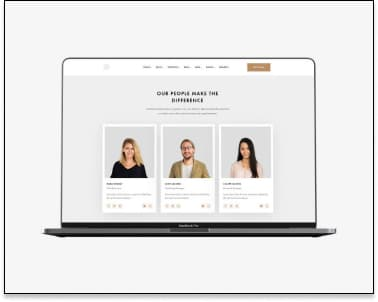
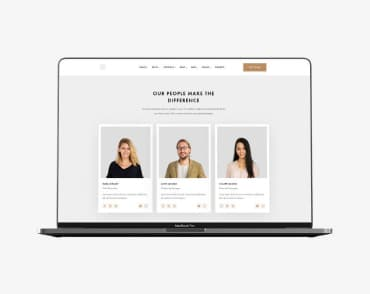
картинка портфолио

diff --git a/css/styles.css b/css/styles.css
@@ -8,6 +8,7 @@
 }
 
 
+
 .visually-hidden {
     position: absolute;
     white-space: nowrap;
@@ -20,7 +21,7 @@
     clip-path: inset(50%);
     margin: -1px;
   }
-  
+
 
 p, h1, h2, h3, h4, h5, h6 {
     margin: 0;
@@ -120,6 +121,7 @@ color: #000000;
 
 
 .header-link, .header-mail, .header-tel {
+display: flex;
 font-weight: 500;
 font-size: 14px;
 line-height: 1.14;
@@ -131,15 +133,22 @@ color: var(--header-color)
 color: var(--accent-color)
 }
 
-.header-item{
+.header-list{
 display: flex;
+align-items: baseline;
 align-items: center;
 justify-content: center;
 cursor: pointer;
-fill: #757575;
+color: #757575;
+}
+
+.header-item :hover,
+.header-item :focus{
+fill: #2196F3;
 }
 
 .header-icon{
+fill: #757575;
 margin-right: 10px;
 }
 
@@ -148,23 +157,14 @@ margin-right: 10px;
 color: var(--accent-color)
 }
 
-.header-icon :hover{
-color: var(--accent-color)   
-}
-    
-.header-icon :focus{
-color: var(--accent-color)
-}
-
-.header-tel, .header-mail {
+.header-tel + .header-mail {
+display: flex;
 font-weight: 500;
 font-size: 14px;
 line-height: 1.14;
 color: #757575;
-}
-
-.header-icon{
-color: #757575;
+align-items: baseline;
+justify-content: center;
 }
 
 .header-tel:hover,
@@ -180,18 +180,19 @@ color: var(--accent-color)
 /*--------HERO-------*/
 
 .hero{
-    background-color: #2F303A;
-    max-width: 1600px;
-    max-height: 600px;
-    margin: 0 auto;
-    background-image: linear-gradient(rgba(47, 48, 58, 0.4),rgba(47, 48, 58, 0.4)), 
-    url(../images/hero.jpg);
-    background-repeat: no-repeat;
-    background-position: center;
-    background-size: cover; 
-    padding-top: 200px;
-    padding-bottom: 200px;
-    }
+content: "";
+background-color: #2F303A;
+max-width: 1600px;
+max-height: 600px;
+margin: 0 auto;
+background-image: linear-gradient(rgba(47, 48, 58, 0.4),rgba(47, 48, 58, 0.4)), 
+url(../images/hero.jpg);
+background-repeat: no-repeat;
+background-position: center;
+background-size: cover; 
+padding-top: 200px;
+padding-bottom: 200px;
+}
         
 
 
@@ -353,6 +354,16 @@ margin-left: 30px;
 margin-bottom: 30 px;
 }
 
+.team-item{
+width: 270px;
+height: 428px;
+background: #FFFFFF;
+box-shadow: 0px 1px 3px rgba(0, 0, 0, 0.12),
+0px 1px 1px rgba(0, 0, 0, 0.14),
+0px 2px 1px rgba(0, 0, 0, 0.2);
+border-radius: 0px 0px 4px 4px;
+
+}
 .team {
 font-weight: 500;
 font-size: 16px;
@@ -381,6 +392,7 @@ background-color: #FFFFFF;
 }
 
 .text-team{
+margin-bottom: 16px;
 font-weight: 400;
 font-size: 16px;
 line-height: 1.19;
@@ -466,52 +478,47 @@ display: flex;
 justify-content: center;
 align-items: center;
 }
-
  
 .clients-list{
 display: flex;
 flex-wrap: wrap;
 }
 
-
-
 .clients-item{
 width: 170px;
 height: 92px;
-background-color: #FFFFFF;
+display: flex;
 border: 1px solid #afb1b8;
 border-radius: 4px; 
-display: flex; 
 justify-content: center;
 align-items: center;
 cursor: pointer;
-fill: #AFB1B8;
 }
 
 .clients-item + .clients-item{
 margin-left: 30px;
 }
 
-.сlients-icon :current {
-color: #2196F3 ;
-fill: #2196F3; 
+.clients-item :hover{
+fill: #2196F3;
+}
+    
+.clients-item :focus{
+fill: #2196F3;
 }
 
-.сlients-icon :focus{
-background-color: #2196F3 ;
-fill: #2196F3;   
+.clients-icon :hover{
+fill: #2196F3;
 }
 
-
+.clients-icon :focus{
+fill: #2196F3;
+}
 .clients-icon{
 width: 106px;
 height: 60px;
 fill: #AFB1B8;
 }
-
-
-
-
 
 
 /*--------FOOTER-------*/
@@ -546,17 +553,23 @@ color: #FFFFFF;
 margin-bottom: 20px;
 }
 
-
 .footer-soc-item {
 width: 44px;
 height: 44px;
-background: rgba(255, 255, 255, 0.1);
-border-radius: 50px;
 display: flex;
 align-items: center;
 justify-content: center;
 cursor: pointer;
-fill:#FFFFFF
+fill:#FFFFFF;
+background: rgba(255, 255, 255, 0.1);
+border-radius: 50px;
+fill:#FFFFFF;
+}
+
+.footer-soc-list{
+display: flex;
+align-items: center;
+justify-content: center;
 }
 
 .footer-soc-list :hover{
@@ -744,3 +757,11 @@ line-height: 1.88;
 letter-spacing: 0.03em;
 color: #757575;
 }
+
+.section-item:hover{
+    box-shadow:0px 1px 1px rgba(0, 0, 0, 0.12), 
+    0px 4px 4px rgba(0, 0, 0, 0.06), 
+    1px 4px 6px rgba(0, 0, 0, 0.16);
+}
+
+

diff --git a/potrfolio.html b/potrfolio.html
@@ -185,20 +185,56 @@
     </div>
       </section>
     </main>
-     <!--Footer-->
-     <footer class="footer">
-      <div class="container">
-      <a class="footer-logo" href="./index.html">
-          <span class="address-web">Web</span>
-            <span class="address-studio">Studio</span></a>
-            <p class="text-address">г. Киев, пр-т Леси Украинки, 26</p>
-      <address>
-        <ul class="address-list">
-          <li class="address-item"><a class="address-mail">info@example.com</a></li>
-          <li class="address-item"><a class="address-tel">+38 099 111 11 11</a></li>
-        </ul>
-      </address>
-    </div>
-      </footer>
-  </body>
-</html>
+    <!--Footer-->
+ <div class="footer-wrap">
+  <div class="container">
+   <footer class="footer">
+     <a class="footer-logo" href="./index.html">
+         <span class="address-web">Web</span>
+           <span class="address-studio">Studio</span></a>
+           <p class="text-address">г. Киев, пр-т Леси Украинки, 26</p>
+     <address>
+       <ul class="address-list">
+         <li class="address-item"><a class="address-mail">info@example.com</a></li>
+         <li class="address-item"><a class="address-tel">+38 099 111 11 11</a></li>
+       </ul>
+     </address>
+   </footer>
+   <footer class="invite">
+   <div class="footer-invite">
+   <p class="text-invite">ПРИСОЕДИНЯЙТЕСЬ</p>
+     <ul class="footer-soc-list list">
+       <li class="footer-soc-item">
+      <a href="footer-soc-link">
+      <svg class="footer-soc-icon" width="20" height="20">
+       <use href="./images/icons/symbol-defs.svg#icon-instagram"></use>
+      </svg>
+      </a>
+     </li>
+     <li class="footer-soc-item">
+       <a href="footer-soc-link">
+       <svg class="footer-soc-icon" width="20" height="20">
+       <use href="./images/icons/symbol-defs.svg#icon-twitter"></use>
+       </svg>
+       </a>
+       </li>
+       <li class="footer-soc-item">
+       <a href="footer-soc-link">
+       <svg class="footer-soc-icon" width="20" height="20">
+       <use href="./images/icons/symbol-defs.svg#icon-facebook"></use>
+        </svg>
+        </a>
+       </li>
+       <li class="footer-soc-item">
+         <a href="footer-soc-link">
+         <svg class="footer-soc-icon" width="20" height="20">
+         <use href="./images/icons/symbol-defs.svg#icon-linkedin"></use>
+          </svg>
+          </a>
+         </li>
+     </ul>
+   </footer>
+ </div>
+ </div>
+ </body>
+ </html>

diff --git a/index.html b/index.html
@@ -325,7 +325,7 @@
     <section class="clients-section">
     <div class="container">
       <h2 class="clients-title">Постоянные клиенты</h2>
-      <ul class="clients-list list ">
+      <ul class="clients-list">
       <li class="clients-item">
     <a href class="clients-link">
   <svg class="clients-icon" width="106" height="60">
